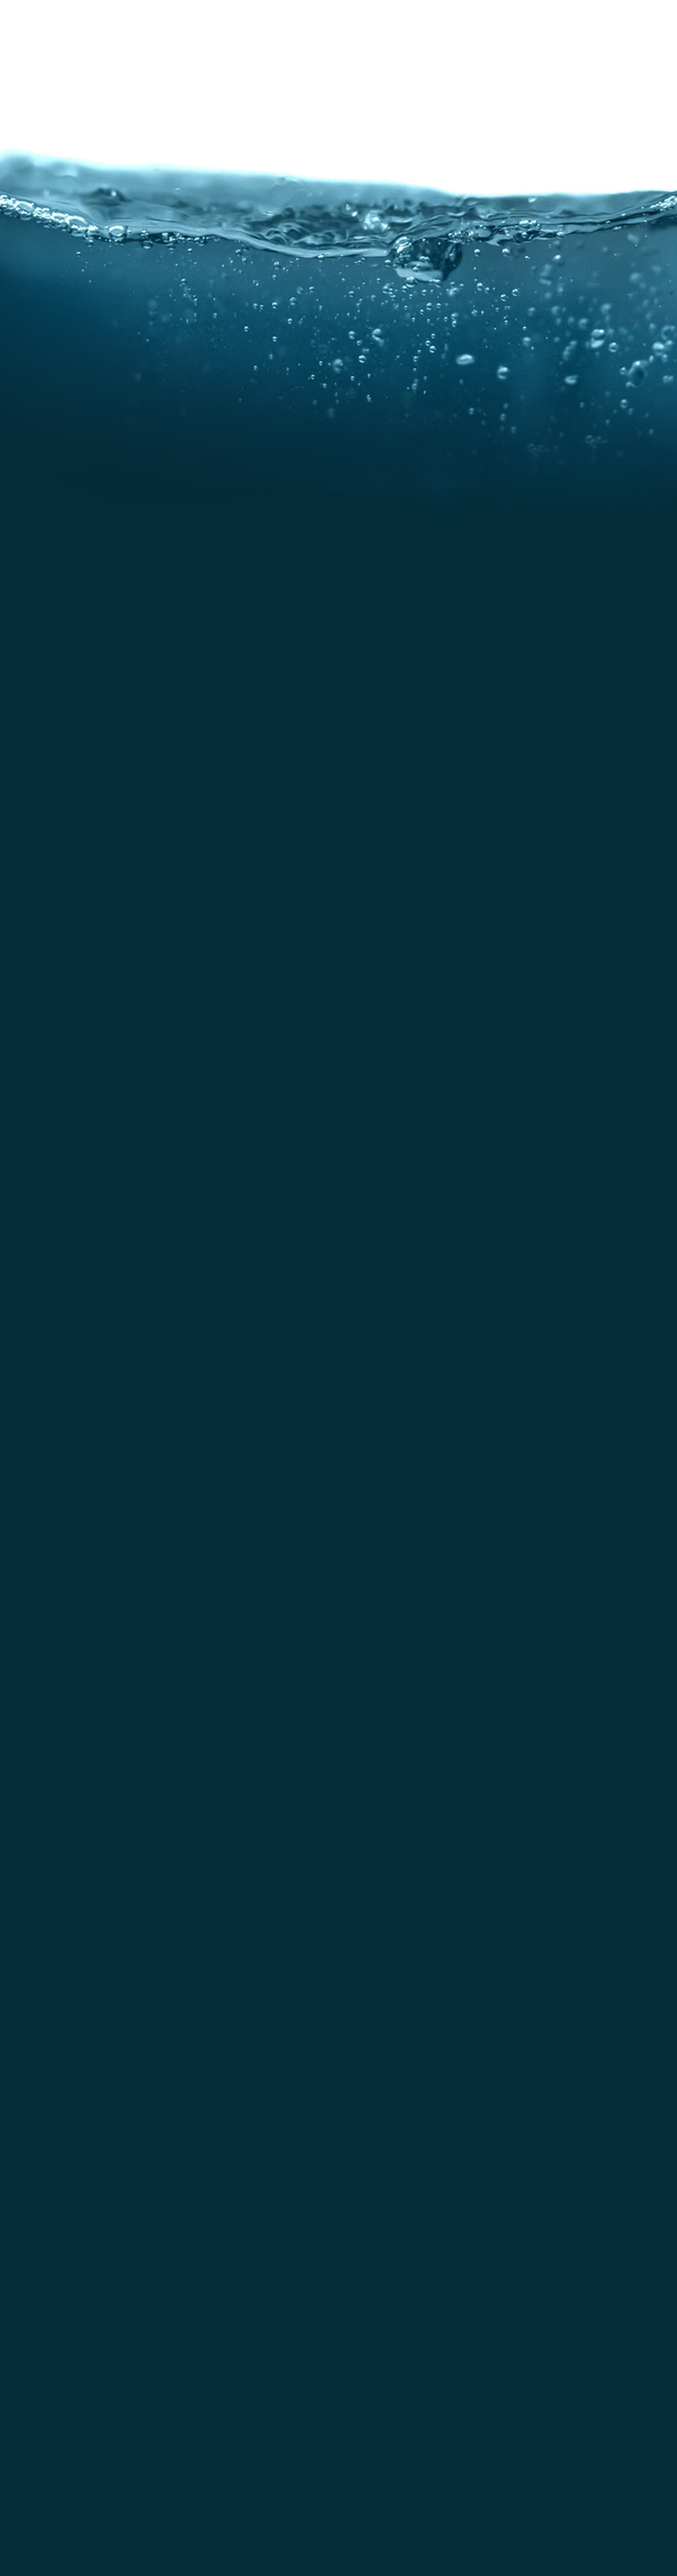
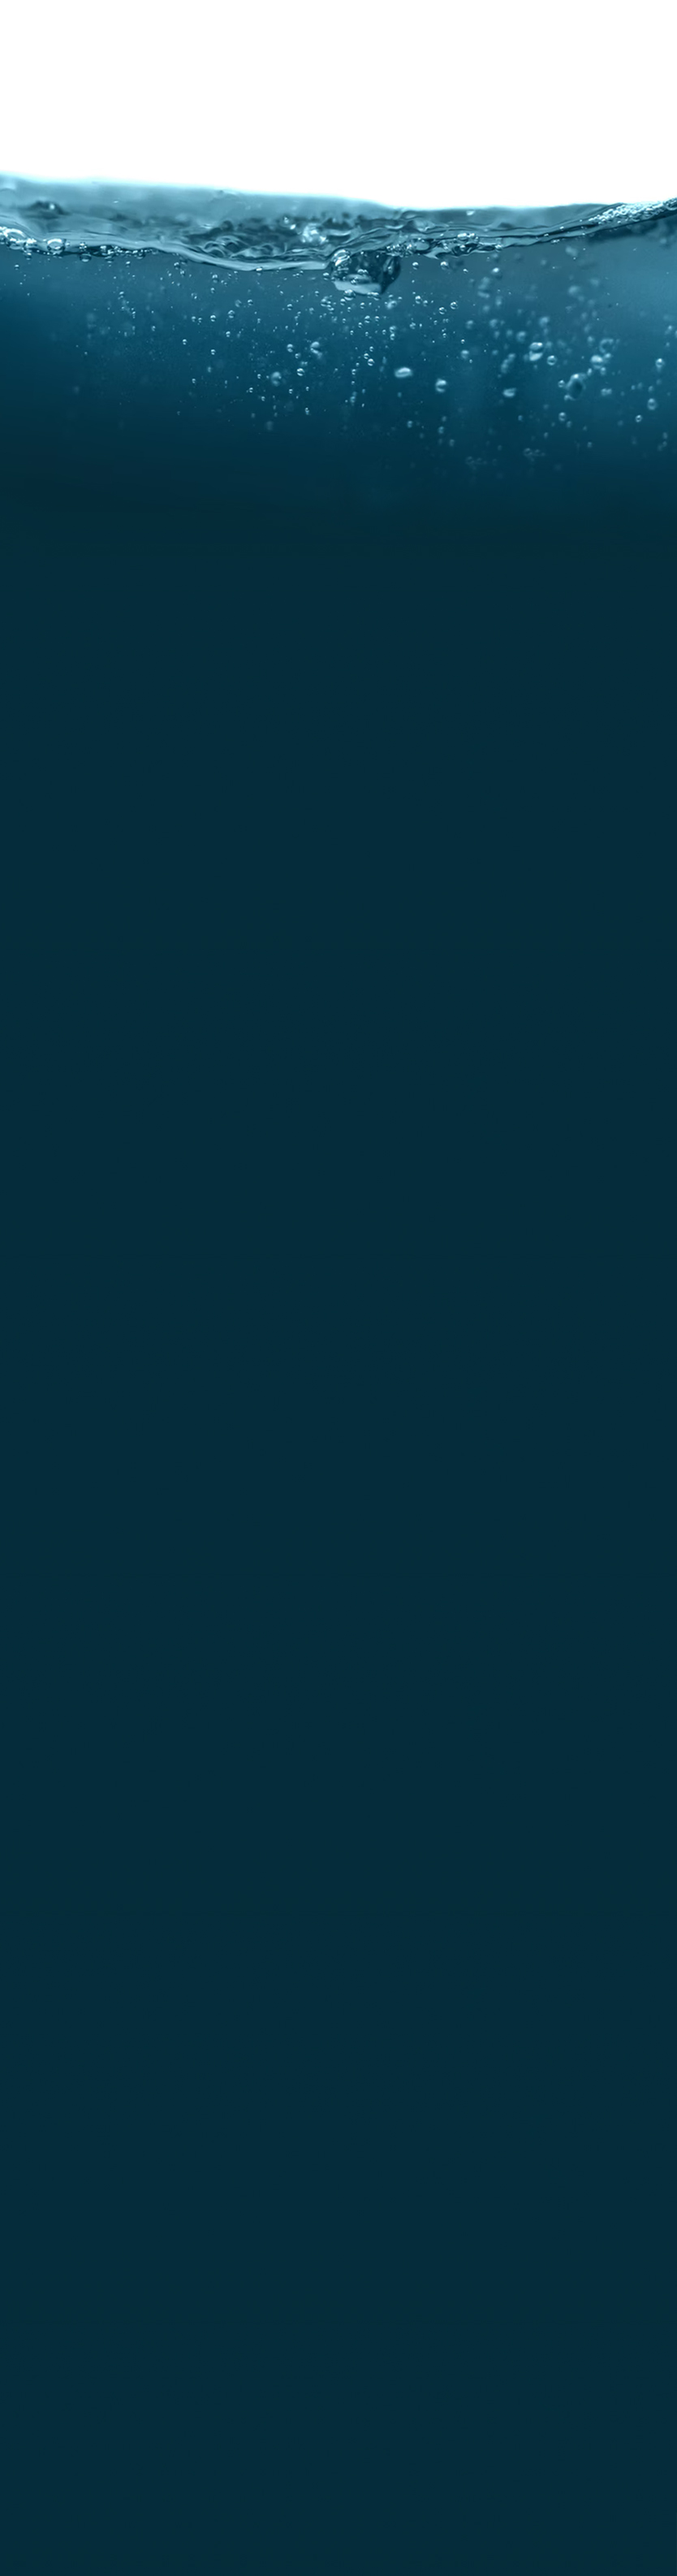
header fix samt navigation - plus lite justering av tablet bakgrundsbild

Changed region(s): [[0.0, 0.0312, 1.0, 0.1561]]

diff --git a/style.css b/style.css
@@ -51,10 +51,11 @@ header {
     height: 40px;
     width: 54px;
     margin-bottom: 2px;
-    margin-left: 10px;
+    margin-left: 20px;
     margin-right: 27px;
+    margin-top: 10px;
     position: absolute;
-    top:12px;
+    top:8px;
 
 }
 
@@ -62,11 +63,11 @@ h3 {
     font-family: roboto;
     position: abolute;
     font-size: 12px;
-    margin-left: 7px;
-    margin-top: 0px;
+    margin-left: 18px;
+    margin-top: 12px;
     font-weight: bold;
     position: relative;
-    top: 50px;
+    top: 48px;
 
 }
 
@@ -80,20 +81,20 @@ header input {
     position: absolute;
     border-radius: 100px;
     width: 186px;
-    height: 21.89px;
-    left: 100px;
-    top: 25px;
+    height: 21px;
+    left: 103px;
+    top: 35px;
 
 }
 
 header button {
     position: absolute;
-    left: 233px;
-    top: 27px;
+    left: 237px;
+    top: 37px;
     border: none;
     border-radius: 100px;
     width: 58.5px;
-    height: 24px;
+    height: 23px;
     background: #F5592C;
     font-family: roboto;
     color: white;
@@ -108,7 +109,7 @@ header p {
     width: 50px;
     height: 9px;
     left: 70px;
-    top: 2px;
+    top: 14px;
     margin-bottom: 0px;
     margin-left: 50px;
 
@@ -122,7 +123,7 @@ header p {
 .shoppingcart {
     position: absolute;
     right: 18px;
-    top: 27px;
+    top: 35px;
     height: 27px;
     width: 32px;
     margin-left: 27px;
@@ -304,7 +305,7 @@ nav ul {
     grid-gap: 14px;
     padding: 0;
     position: absolute;
-    top: 65px;
+    top: 85px;
     left: 17px;
 }
 
@@ -478,6 +479,7 @@ footer h3 {
     color: white;
     position: absolute;
     left: 125px;
+    top: 150px;
 }
 
 .footertext {
@@ -557,14 +559,14 @@ footer h3 {
         width: 389px;
         height: 44px;
         left: 239px;
-        top: 60px;
+        top: 72px;
     }
 
     header button {
         width: 120.5px;
         height: 46px;
         left: 514px;
-        top: 62px;
+        top: 74px;
         font-size: 24px;
     }
 
@@ -572,7 +574,7 @@ footer h3 {
         font-size: 18px;
         width: 92px;
         left: 210px;
-        top: 25px;
+        top: 35px;
     }
 
     .blueLogotype {
@@ -591,7 +593,7 @@ footer h3 {
         position: absolute;
         left: 53px;
         margin: 0px;
-        top: 95px;
+        top: 108px;
     }
 
     .shoppingcart {
@@ -599,7 +601,14 @@ footer h3 {
         height: 44px;
         width: 47px;
         margin-left: 29px;
-        top: 60px;
+        top: 71px;
+    }
+/* NAVIGATION - tablet */  
+    nav ul {
+        top: 145px;
+        grid-template-columns: 172px 184px 194px;
+        left: 90px;
+        grid-gap: 48px;
     }
 
 /* PRODUCT CARDS */
@@ -828,7 +837,7 @@ footer h3 {
     }
 
     h3 {
-        top:105px;
+        top:115px;
     }
 
     header p {
@@ -849,6 +858,19 @@ footer h3 {
     .shoppingcart {
         margin-left:63px;
         left:1280px;
+    }
+
+/* NAVIGATION - desktop */  
+    nav ul {
+        top: 60px;
+        grid-template-columns: 172px 184px 194px;
+        left: 210px;
+    }
+
+    nav ul li {
+        background-color: white;
+        color: black;
+        font-size: 24px;
     }
 
     .primary {
